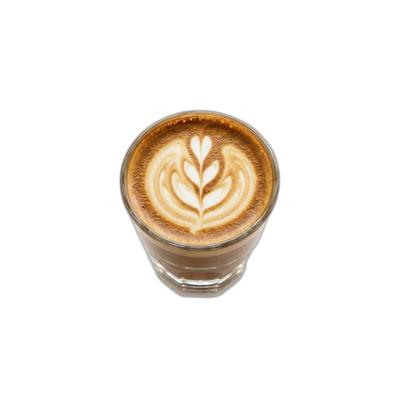
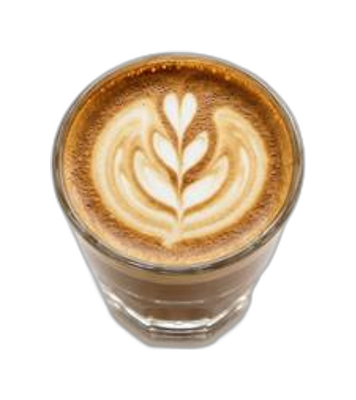
fix(menu): prevent directory cards collision, enable silky touch scrolling, and fix dish thumbnails

diff --git a/src/styles/components.css b/src/styles/components.css
@@ -721,6 +721,7 @@
   max-height: 90dvh;
   display: flex;
   flex-direction: column;
+  overflow: hidden;
   animation: slideUp 0.3s cubic-bezier(0.34, 1.56, 0.64, 1);
   box-shadow: 0 -10px 40px rgba(0, 0, 0, 0.15);
 }
@@ -1073,6 +1074,9 @@
   padding: 18px 22px 14px;
   border-bottom: 1px solid var(--border-subtle);
   background: #FFFFFF;
+  flex-shrink: 0;
+  width: 100%;
+  box-sizing: border-box;
 }
 
 .directory-badge-row {
@@ -1108,6 +1112,7 @@
 .directory-search-wrapper {
   margin-top: 12px;
   position: relative;
+  width: 100%;
 }
 
 .directory-search-input {
@@ -1119,6 +1124,7 @@
   font-size: 13px;
   color: var(--text-primary);
   outline: none;
+  box-sizing: border-box;
   transition: border-color 0.2s, background-color 0.2s;
 }
 
@@ -1137,31 +1143,59 @@
 }
 
 .directory-content-list {
-  padding: 14px 18px 28px;
+  padding: 14px 18px 48px;
+  padding-bottom: max(48px, env(safe-area-inset-bottom, 32px));
   display: flex;
   flex-direction: column;
   gap: 12px;
   overflow-y: auto;
-  max-height: 72dvh;
+  overflow-x: hidden;
+  -webkit-overflow-scrolling: touch;
+  touch-action: pan-y;
+  overscroll-behavior: contain;
+  flex: 1 1 auto;
+  min-height: 0;
+  width: 100%;
+  box-sizing: border-box;
+  scrollbar-width: thin;
+  scrollbar-color: rgba(197, 154, 111, 0.4) transparent;
+}
+
+.directory-content-list::-webkit-scrollbar {
+  width: 5px;
+}
+
+.directory-content-list::-webkit-scrollbar-thumb {
+  background: rgba(197, 154, 111, 0.35);
+  border-radius: 999px;
+}
+
+.directory-content-list::-webkit-scrollbar-track {
+  background: transparent;
 }
 
 .directory-cat-card {
+  flex-shrink: 0;
+  width: 100%;
+  min-height: 62px;
   background: #FFFFFF;
-  border: 1px solid var(--border-subtle, #ECE7DF);
+  border: 1.5px solid var(--border-subtle, #ECE7DF);
   border-radius: 16px;
   overflow: hidden;
-  transition: all 0.2s cubic-bezier(0.2, 0.8, 0.2, 1);
-  box-shadow: 0 2px 6px rgba(0, 0, 0, 0.02);
+  transition: border-color 0.2s ease, box-shadow 0.2s ease;
+  box-shadow: 0 2px 8px rgba(0, 0, 0, 0.03);
+  box-sizing: border-box;
 }
 
 .directory-cat-card.active {
   border-color: var(--brand-gold, #C59A6F);
-  box-shadow: 0 4px 14px rgba(166, 107, 51, 0.08);
+  box-shadow: 0 4px 14px rgba(166, 107, 51, 0.1);
 }
 
 .directory-cat-header-btn {
   width: 100%;
-  padding: 12px 14px;
+  min-height: 60px;
+  padding: 12px 16px;
   display: flex;
   align-items: center;
   justify-content: space-between;
@@ -1171,6 +1205,8 @@
   cursor: pointer;
   gap: 12px;
   user-select: none;
+  flex-shrink: 0;
+  box-sizing: border-box;
 }
 
 .directory-cat-left {
@@ -1182,11 +1218,11 @@
 }
 
 .directory-cat-icon {
-  width: 38px;
-  height: 38px;
+  width: 40px;
+  height: 40px;
   border-radius: 50%;
   background: var(--bg-surface-light, #FAF7F2);
-  border: 1px solid rgba(197, 154, 111, 0.25);
+  border: 1px solid rgba(197, 154, 111, 0.3);
   display: flex;
   align-items: center;
   justify-content: center;
@@ -1199,13 +1235,15 @@
   flex-direction: column;
   gap: 2px;
   min-width: 0;
+  flex: 1;
 }
 
 .directory-cat-title {
   font-family: var(--font-display, serif);
-  font-size: 15px;
+  font-size: 15.5px;
   font-weight: 700;
   color: var(--text-primary, #1E140F);
+  line-height: 1.25;
 }
 
 .directory-cat-subtitle {
@@ -1219,7 +1257,7 @@
 .directory-cat-right {
   display: flex;
   align-items: center;
-  gap: 8px;
+  gap: 10px;
   flex-shrink: 0;
 }
 
@@ -1228,14 +1266,15 @@
   font-weight: 700;
   background: var(--bg-surface-light, #F5F1EA);
   color: var(--text-secondary, #5C5449);
-  padding: 3px 9px;
+  padding: 4px 10px;
   border-radius: 999px;
   border: 1px solid var(--border-subtle, #ECE7DF);
+  white-space: nowrap;
 }
 
 .directory-chevron-btn {
-  width: 28px;
-  height: 28px;
+  width: 30px;
+  height: 30px;
   border-radius: 50%;
   display: flex;
   align-items: center;
@@ -1244,6 +1283,7 @@
   background: var(--bg-surface-light, #FAF7F2);
   border: 1px solid var(--border-subtle, #ECE7DF);
   transition: transform 0.25s cubic-bezier(0.34, 1.56, 0.64, 1), background-color 0.2s, color 0.2s;
+  flex-shrink: 0;
 }
 
 .directory-chevron-btn.open {
@@ -1257,68 +1297,88 @@
 .directory-dishes-dropdown {
   background: #FFFDFB;
   border-top: 1px solid var(--border-subtle, #ECE7DF);
-  padding: 10px 12px 14px;
+  padding: 12px 14px 16px;
   display: flex;
   flex-direction: column;
   gap: 8px;
   animation: fadeIn 0.2s ease-out;
+  width: 100%;
+  box-sizing: border-box;
 }
 
 .directory-dish-item {
   display: flex;
   align-items: center;
   justify-content: space-between;
-  padding: 8px 10px;
+  padding: 10px 12px;
   border-radius: 12px;
   background: #FFFFFF;
-  border: 1px solid rgba(0, 0, 0, 0.05);
+  border: 1px solid rgba(0, 0, 0, 0.06);
   cursor: pointer;
   transition: all 0.15s ease;
-  gap: 10px;
+  gap: 12px;
+  flex-shrink: 0;
+  min-height: 56px;
+  width: 100%;
+  box-sizing: border-box;
 }
 
 .directory-dish-item:hover,
 .directory-dish-item:active {
   background: var(--bg-surface-light, #FAF7F2);
   border-color: var(--brand-gold, #C59A6F);
+  box-shadow: 0 2px 8px rgba(166, 107, 51, 0.08);
   transform: translateX(2px);
 }
 
 .directory-dish-left {
   display: flex;
   align-items: center;
-  gap: 10px;
+  gap: 12px;
   min-width: 0;
   flex: 1;
 }
 
-.directory-dish-thumb {
-  width: 38px;
-  height: 38px;
-  border-radius: 8px;
-  object-fit: cover;
-  flex-shrink: 0;
+.directory-dish-thumb-wrap {
+  width: 44px;
+  height: 44px;
+  border-radius: 10px;
+  background: var(--bg-surface-light, #FAF7F2);
   border: 1px solid var(--border-subtle, #ECE7DF);
+  display: flex;
+  align-items: center;
+  justify-content: center;
+  overflow: hidden;
+  flex-shrink: 0;
+}
+
+.directory-dish-thumb {
+  width: 100%;
+  height: 100%;
+  object-fit: cover;
+  display: block;
 }
 
 .directory-dish-info {
   display: flex;
   flex-direction: column;
-  gap: 2px;
+  gap: 3px;
   min-width: 0;
+  flex: 1;
 }
 
 .directory-dish-name {
-  font-size: 13px;
+  font-size: 13.5px;
   font-weight: 600;
   color: var(--text-primary);
   white-space: nowrap;
   overflow: hidden;
   text-overflow: ellipsis;
+  line-height: 1.25;
 }
 
 .directory-dish-sub {
-  font-size: 9.5px;
+  font-size: 10px;
   font-weight: 700;
   color: var(--brand-gold-dark, #8B5E34);
   letter-spacing: 0.5px;
@@ -1333,27 +1393,30 @@
 }
 
 .directory-dish-price {
-  font-size: 12.5px;
+  font-size: 13px;
   font-weight: 700;
   color: var(--brand-accent, #A66B33);
 }
 
 .directory-jump-btn {
-  margin-top: 4px;
-  padding: 9px 12px;
-  font-size: 12px;
-  font-weight: 600;
+  margin-top: 6px;
+  padding: 11px 14px;
+  font-size: 12.5px;
+  font-weight: 700;
   color: var(--brand-gold-dark, #8B5E34);
   background: var(--bg-surface-light, #FAF7F2);
-  border: 1px dashed var(--brand-gold, #C59A6F);
+  border: 1.5px dashed var(--brand-gold, #C59A6F);
   border-radius: 10px;
   cursor: pointer;
   text-align: center;
-  transition: all 0.2s;
+  transition: all 0.2s ease;
   display: flex;
   align-items: center;
   justify-content: center;
   gap: 6px;
+  width: 100%;
+  box-sizing: border-box;
+  flex-shrink: 0;
 }
 
 .directory-jump-btn:hover {

diff --git a/src/components/CustomerMenu.tsx b/src/components/CustomerMenu.tsx
@@ -1324,13 +1324,25 @@ export default function CustomerMenu({
                               }}
                             >
                               <div className="directory-dish-left">
-                                <Image
-                                  src={dish.img}
-                                  alt={dish.name}
-                                  width={38}
-                                  height={38}
-                                  className="directory-dish-thumb"
-                                />
+                                <div className="directory-dish-thumb-wrap">
+                                  {dish.img ? (
+                                    /* eslint-disable-next-line @next/next/no-img-element */
+                                    <img
+                                      src={dish.img}
+                                      alt={dish.name}
+                                      className="directory-dish-thumb"
+                                      loading="lazy"
+                                      onError={(e) => {
+                                        const target = e.currentTarget;
+                                        if (!target.src.endsWith('ozkafe_logo.jpeg')) {
+                                          target.src = '/images/ozkafe_logo.jpeg';
+                                        }
+                                      }}
+                                    />
+                                  ) : (
+                                    <span style={{ fontSize: '18px' }}>☕</span>
+                                  )}
+                                </div>
                                 <div className="directory-dish-info">
                                   <span className="directory-dish-name">{dish.name}</span>
                                   {dish.subheading && (
